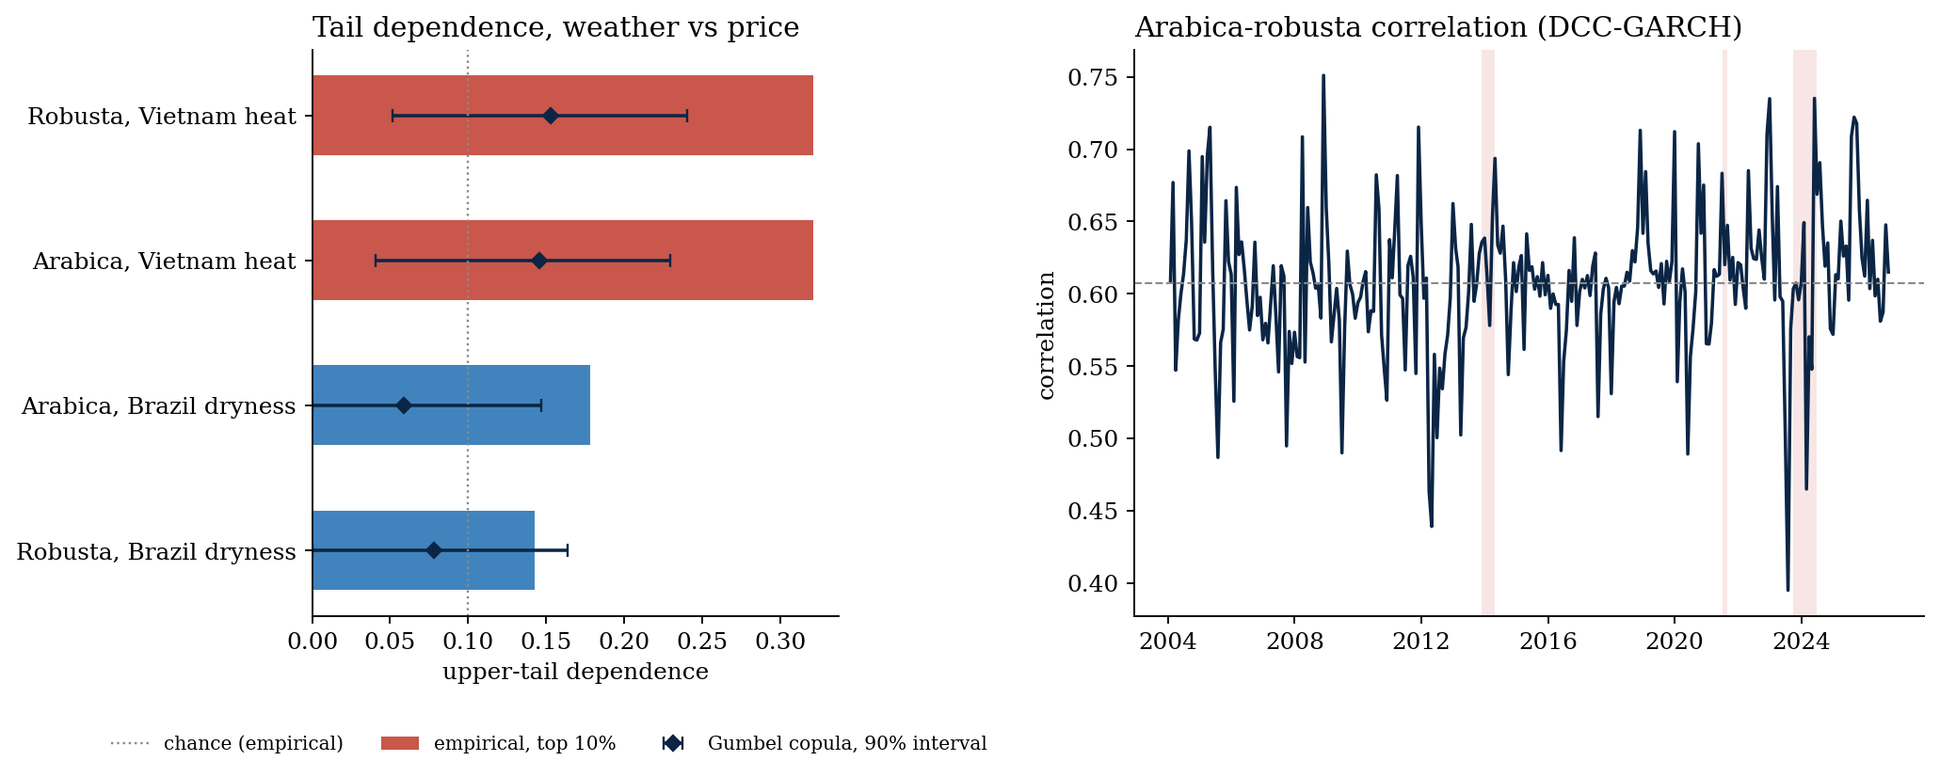
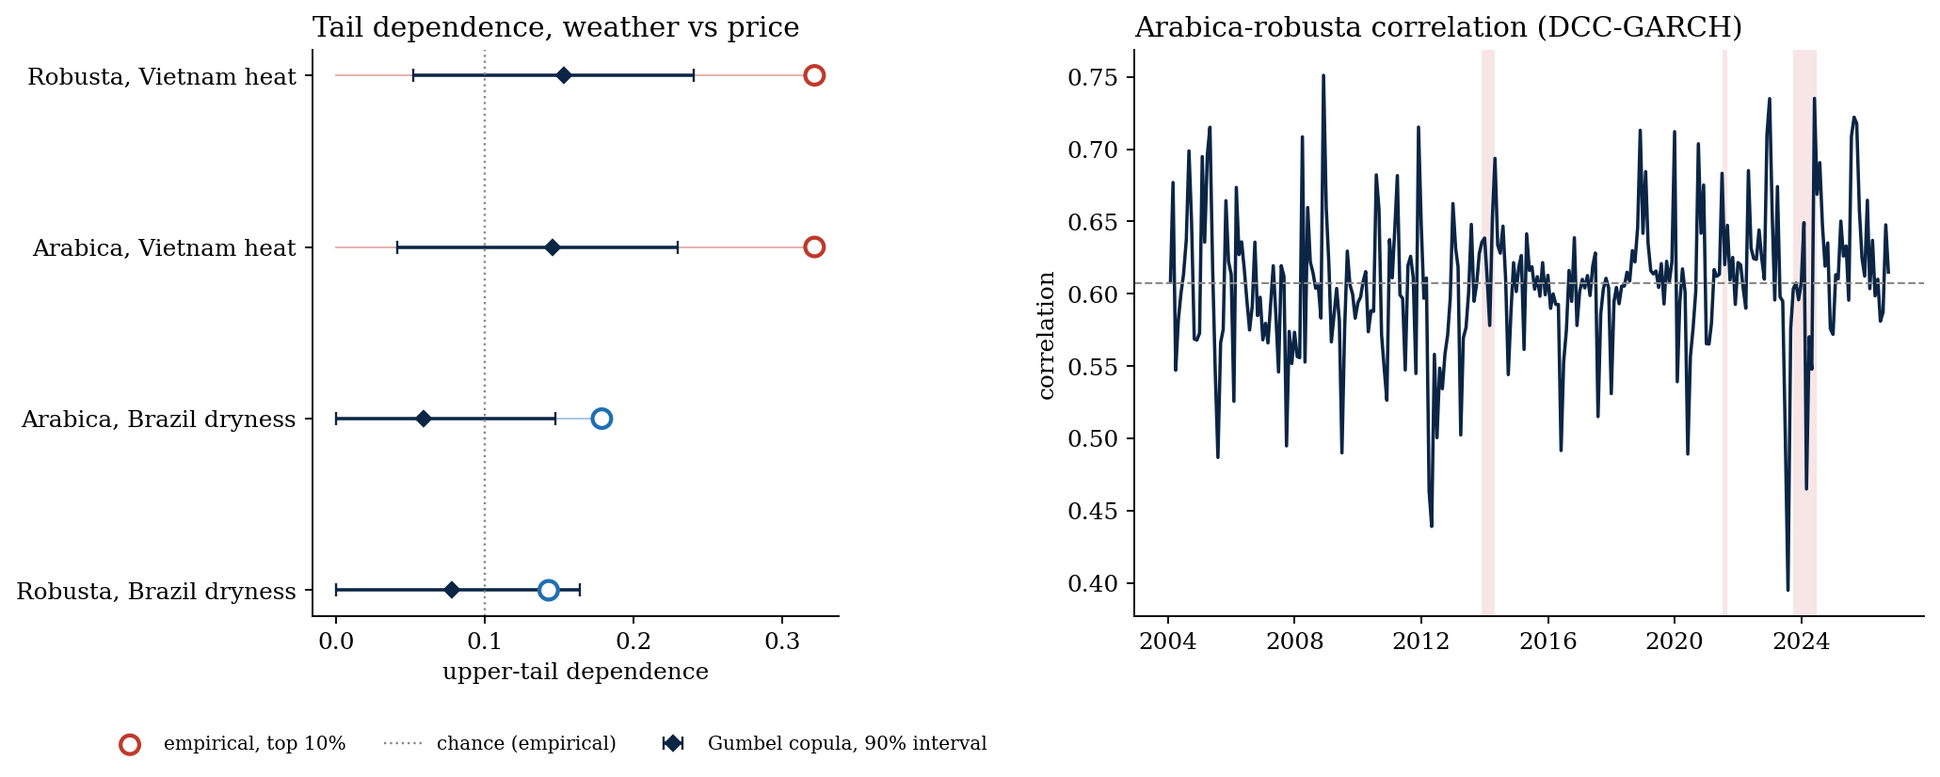
008: first stochastic event set; bar charts redrawn as dot, dumbbell, strip and return-period plots

diff --git a/008-spanish-solar-portfolio/event_set.py b/008-spanish-solar-portfolio/event_set.py
@@ -1,0 +1,119 @@
+#!/usr/bin/env python3
+#-------- event_set.py --------------------------------------------------------------
+#-----------------------------------------------------------------------------
+# A first stochastic event set for the fleet, and the P95 it implies.
+#
+# From one year of ERA5 (2023) the daily output of the 25 regions (1 MW each, irradiance x
+# 0.8) is split into each site's seasonal mean and its daily anomaly. The anomalies' joint
+# behaviour is captured by a Gaussian copula (each site's own anomaly distribution, joined
+# by their rank correlation, with day-to-day persistence from an AR(1) of the common
+# factor). 2,000 synthetic years are drawn twice: with the fitted correlation, and with the
+# sites independent. For each, the fleet's monthly output and its 1-in-20 bad month (the
+# monthly P95 shortfall) are read off. The gap is the risk a portfolio priced site by site
+# would miss. One year is a short record, so this is the framework, not a calibrated set.
+#
+#   python event_set.py      (in .venv-anemoi)
+#
+# Output: results/event_set.json, figures/fig10_event_set.png
+
+import json
+import os
+import sys
+
+import numpy as np
+import pandas as pd
+import matplotlib
+matplotlib.use("Agg")
+import matplotlib.pyplot as plt
+from scipy.stats import norm, rankdata
+
+HERE = os.path.dirname(os.path.abspath(__file__))
+sys.path.insert(0, HERE)
+import solar_sites as ss                                       # noqa: E402
+from spread_sites import daily_output                          # noqa: E402
+
+NAVY, BLUE, LIGHT, RED, GREY = "#0b2545", "#1f6fb2", "#8cc0e8", "#c0392b", "#8a8a8a"
+YEARS = 2000
+rng = np.random.default_rng(0)
+
+
+def main():
+    day, _, _ = daily_output(ss.SITES)
+    day = day.loc[day.index.year == 2023]
+    month = day.index.month
+    mean = day.groupby(month).transform("mean")
+    sd = day.groupby(month).transform("std").replace(0, np.nan)
+    z = ((day - mean) / sd).fillna(0)
+    u = np.column_stack([rankdata(z[c]) / (len(z) + 1) for c in z])
+    g = norm.ppf(u)
+    R = np.corrcoef(g.T)
+    common = g.mean(axis=1)
+    phi = float(np.corrcoef(common[:-1], common[1:])[0, 1])          # persistence of the shared weather
+    L = np.linalg.cholesky(R + 1e-9 * np.eye(len(R)))
+    sorted_z = np.sort(z.values, axis=0)
+    n_days, n_sites = z.shape
+    mean_v, sd_v = mean.values, sd.fillna(0).values
+
+    def simulate(correlated):
+        out = []
+        for _ in range(YEARS):
+            e = rng.standard_normal((n_days, n_sites))
+            ar = np.empty_like(e); ar[0] = e[0]
+            for t in range(1, n_days):                            # persistence day to day
+                ar[t] = phi * ar[t - 1] + np.sqrt(1 - phi ** 2) * e[t]
+            x = ar @ L.T if correlated else ar
+            uu = norm.cdf(x)
+            zz = np.take_along_axis(sorted_z, np.clip((uu * n_days).astype(int), 0, n_days - 1), axis=0)
+            gen = np.clip(mean_v + sd_v * zz, 0, None)
+            out.append(pd.Series(gen.sum(axis=1), index=day.index).groupby(month).sum().values)
+        return np.array(out)                                       # years x 12 months, MWh for the fleet
+
+    cor, ind = simulate(True), simulate(False)
+    actual = day.sum(axis=1).groupby(month).sum().values
+    res = {}
+    for m in range(12):
+        res[int(m + 1)] = dict(mean=float(cor[:, m].mean()), p5_correlated=float(np.quantile(cor[:, m], 0.05)),
+                               p5_independent=float(np.quantile(ind[:, m], 0.05)), actual_2023=float(actual[m]))
+    short_c = np.array([(res[m]["mean"] - res[m]["p5_correlated"]) / res[m]["mean"] for m in res])
+    short_i = np.array([(res[m]["mean"] - res[m]["p5_independent"]) / res[m]["mean"] for m in res])
+    out = dict(years=YEARS, persistence=phi, mean_pairwise_rank_corr=float(R[np.triu_indices(len(R), 1)].mean()),
+               monthly=res, p95_shortfall_correlated=float(short_c.mean()), p95_shortfall_independent=float(short_i.mean()),
+               ratio=float(short_c.mean() / short_i.mean()))
+    print(json.dumps({k: v for k, v in out.items() if k != "monthly"}, indent=1))
+
+    mmean = cor.mean(axis=0)
+    worst_c = ((mmean - cor) / mmean).max(axis=1)                 # each simulated year's worst month
+    worst_i = ((mmean - ind) / mmean).max(axis=1)
+    worst_2023 = float(((mmean - actual) / mmean).max())
+    out.update(worst_month_1in20_correlated=float(np.quantile(worst_c, 0.95)),
+               worst_month_1in20_independent=float(np.quantile(worst_i, 0.95)), worst_month_2023=worst_2023)
+    json.dump(out, open(os.path.join(HERE, "results", "event_set.json"), "w"), indent=1)
+    print({k: round(out[k], 3) for k in ("worst_month_1in20_correlated", "worst_month_1in20_independent", "worst_month_2023")})
+
+    plt.rcParams.update({"font.family": "serif", "font.size": 10.5, "axes.spines.top": False, "axes.spines.right": False})
+    fig, axes = plt.subplots(1, 2, figsize=(13, 4.8), gridspec_kw=dict(wspace=0.25))
+    ax = axes[0]
+    mths = np.arange(1, 13)
+    for lo, hi, a in [(0.05, 0.95, 0.18), (0.25, 0.75, 0.35)]:
+        ax.fill_between(mths, np.quantile(cor, lo, axis=0), np.quantile(cor, hi, axis=0), color=RED, alpha=a, lw=0,
+                        label=f"correlated sites, {int(lo*100)}-{int(hi*100)}%")
+    for q in (0.05, 0.95):
+        ax.plot(mths, np.quantile(ind, q, axis=0), color=BLUE, lw=1.1, ls="--", label="independent sites, 5% and 95%" if q == 0.05 else None)
+    ax.plot(mths, actual, color=NAVY, lw=1.6, marker="o", ms=4, label="2023 (ERA5)")
+    ax.set_xticks(mths, list("JFMAMJJASOND")); ax.set_ylabel("fleet output per month, MWh (25 x 1 MW)")
+    ax.set_title("Monthly fleet output, 2,000 simulated years", loc="left"); ax.legend(frameon=False, fontsize=8.5, loc="lower center")
+    ax = axes[1]
+    for w, col, ls, lab in [(worst_c, RED, "-", "correlated sites"), (worst_i, BLUE, "--", "independent sites")]:
+        x = np.sort(w)[::-1]
+        rp = (len(x) + 1) / np.arange(1, len(x) + 1)
+        ax.plot(rp, 100 * x, color=col, lw=1.8, ls=ls, label=lab)
+    ax.axvline(20, color=GREY, lw=0.8, ls=":")
+    ax.text(20, ax.get_ylim()[1] * 0.97, " 1 in 20 years", color=GREY, fontsize=9, va="top")
+    ax.set_xscale("log"); ax.set_xlim(1, 2000); ax.set_xticks([1, 2, 5, 10, 20, 50, 100, 200, 500, 1000], ["1", "2", "5", "10", "20", "50", "100", "200", "500", "1000"])
+    ax.set_xlabel("return period, years"); ax.set_ylabel("worst month of the year, % below its mean")
+    ax.set_title("Worst month of the year against return period", loc="left"); ax.legend(frameon=False, fontsize=9, loc="lower right")
+    fig.savefig(os.path.join(HERE, "figures", "fig10_event_set.png"), dpi=170, bbox_inches="tight"); plt.close(fig)
+
+
+if __name__ == "__main__":
+    main()

diff --git a/013-coffee-forward-curves/make_weather_figures.py b/013-coffee-forward-curves/make_weather_figures.py
@@ -142,8 +142,10 @@ def dependence_figure():
              "arabica|brazil_dry": "Arabica, Brazil dryness", "robusta|brazil_dry": "Robusta, Brazil dryness"}
     keys = list(names)
     y = np.arange(len(keys))
-    ax.barh(y, [d["tail"][k]["tail"] for k in keys], color=[RED, RED, BLUE, BLUE], height=0.55, alpha=0.85,
-            label="empirical, top 10%")
+    emp = [d["tail"][k]["tail"] for k in keys]
+    for i, c in enumerate([RED, RED, BLUE, BLUE]):
+        ax.plot([0, emp[i]], [i, i], color=c, lw=0.8, alpha=0.4)
+    ax.scatter(emp, y, s=70, facecolor="white", edgecolor=[RED, RED, BLUE, BLUE], lw=1.8, zorder=3, label="empirical, top 10%")
     lam = np.array([d["copula"][k]["tail_lambda"] for k in keys])
     lo = np.array([d["copula"][k]["tail_lambda_90"][0] for k in keys])
     hi = np.array([d["copula"][k]["tail_lambda_90"][1] for k in keys])
@@ -282,8 +284,14 @@ def seasonal_figure():
     hz = ["vietnam_heat", "vietnam_dry", "brazil_dry"]
     lab = ["Vietnam heat", "Vietnam dryness", "Brazil dryness"]
     y = np.arange(len(hz)); h = 0.38
-    ax.barh(y, [o["skill_score_vs_climatology"][k] for k in hz], 0.55, color=NAVY)
+    sk = [o["skill_score_vs_climatology"][k] for k in hz]
+    ax.axvspan(min(min(sk), 0) - 0.05, 0, color="0.94", lw=0)
+    ax.hlines(y, 0, sk, color=NAVY, lw=1, alpha=0.5)
+    ax.plot(sk, y, "o", color=NAVY, ms=9, mec="white", mew=1.2)
+    for i, v in enumerate(sk):
+        ax.annotate(f"{v:+.2f}", (v, i), xytext=(0, 9), textcoords="offset points", ha="center", fontsize=8.5, color=NAVY)
     ax.axvline(0, color=GREY, lw=0.8)
+    ax.set_ylim(len(hz) - 0.5, -0.6)
     ax.set_yticks(y, lab); ax.invert_yaxis()
     ax.set_xlabel("skill score against climatology (0 = no better than a normal month)")
     ax.set_title("ECMWF SEAS5 forecast skill", loc="left")
@@ -291,11 +299,16 @@ def seasonal_figure():
     keys = ["arabica|forecast", "arabica|climatology", "robusta|forecast", "robusta|climatology"]
     names = ["Arabica, forecast", "Arabica, climatology", "Robusta, forecast", "Robusta, climatology"]
     vals = [100 * o["results"][k]["hit_rate"] for k in keys]
-    ax.barh(range(4), vals, color=[NAVY, LIGHT, NAVY, LIGHT], height=0.6)
-    for i, k in enumerate(keys):
-        ax.text(vals[i] + 0.8, i, f"{o['results'][k]['decisions']} decisions", va="center", fontsize=8.5, color=GREY)
+    for j, bean in enumerate(["Arabica", "Robusta"]):
+        f, c = vals[2 * j], vals[2 * j + 1]
+        ax.plot([c, f], [j, j], color=GREY, lw=2.5, alpha=0.5, solid_capstyle="round")
+        ax.plot(c, j, "o", color=LIGHT, ms=10, mec=NAVY, mew=0.8, label="climatology" if j == 0 else None)
+        ax.plot(f, j, "o", color=NAVY, ms=10, mec="white", mew=1, label="SEAS5 forecast" if j == 0 else None)
+        ax.text(max(f, c) + 2.2, j, f"{o['results'][keys[2 * j]]['decisions']} decisions", va="center", fontsize=8.5, color=GREY)
     ax.axvline(50, color=RED, lw=1, ls="--")
-    ax.set_yticks(range(4), names); ax.invert_yaxis(); ax.set_xlim(0, 75)
+    ax.text(50.4, 1.45, "coin toss", color=RED, fontsize=8.5)
+    ax.set_yticks(range(2), ["Arabica", "Robusta"]); ax.set_ylim(1.6, -0.6); ax.set_xlim(35, 75)
+    ax.legend(frameon=False, fontsize=9, loc="lower right")
     ax.set_xlabel("buy-forward-or-wait calls that were right (%)")
     ax.set_title("Importer decisions, 2008 on", loc="left")
     fig.savefig(os.path.join(FIG, "fig16_seasonal.png"), dpi=170, bbox_inches="tight")

diff --git a/008-spanish-solar-portfolio/spread_sites.py b/008-spanish-solar-portfolio/spread_sites.py
@@ -79,8 +79,8 @@ def main():
     print(json.dumps(out, indent=1))
 
     plt.rcParams.update({"font.family": "serif", "font.size": 10.5, "axes.spines.top": False, "axes.spines.right": False})
-    fig = plt.figure(figsize=(13, 5.2))
-    gs = fig.add_gridspec(2, 2, width_ratios=[1.1, 1], hspace=0.6, wspace=0.35)
+    fig = plt.figure(figsize=(13, 7))
+    gs = fig.add_gridspec(2, 2, width_ratios=[1.05, 1], hspace=0.55, wspace=0.28)
     ax = fig.add_subplot(gs[:, 0])
     lines = []
     for nm in ["ne_50m_coastline", "ne_50m_admin_0_boundary_lines_land"]:
@@ -98,19 +98,27 @@ def main():
     ax.set_xlim(-10.5, 4.5); ax.set_ylim(35.5, 44.3); ax.set_aspect(1 / np.cos(np.radians(40)))
     ax.set_xticks([]); ax.set_yticks([]); ax.legend(frameon=False, fontsize=9, loc="lower right")
     ax.set_title("Sites", loc="left")
-    names = list(out)
     short = ["25 regions", "25 + six spread", "25, six moved"]
-    for k, (key, lab, col, fmt) in enumerate([("effective_sites", "Effective independent sites", NAVY, "{:.1f}"),
-                                               ("worst5_share_of_mean", "Worst 5% of days, % of an average day", BLUE, "{:.0%}")]):
-        ax = fig.add_subplot(gs[k, 1])
-        vals = [out[n][key] for n in names]
-        ax.barh(range(3), vals, color=col, height=0.6)
-        for i, v in enumerate(vals):
-            ax.text(v, i, " " + fmt.format(v), va="center", fontsize=9)
-        ax.set_yticks(range(3), short); ax.invert_yaxis()
-        ax.set_xlim(0, max(vals) * 1.25); ax.set_xticks([])
-        ax.spines["bottom"].set_visible(False)
-        ax.set_title(lab, loc="left", fontsize=10.5)
+    styles = [(NAVY, "-"), (BLUE, "--"), (RED, "-")]
+    ax = fig.add_subplot(gs[0, 1])
+    for (name, cols), lab, (c, ls) in zip(fleets.items(), short, styles):
+        a = day[cols] - day[cols].groupby(day.index.month).transform("mean")
+        lam = np.sort(np.linalg.eigvalsh(np.corrcoef(a.values.T)))[::-1]
+        ax.plot(np.arange(1, len(lam) + 1), 100 * np.cumsum(lam) / lam.sum(), ls, color=c, lw=1.6, marker="o", ms=3,
+                label=f"{lab}: {out[name]['effective_sites']:.1f} effective sites")
+    ax.set_xlim(0.5, 10.5); ax.set_ylim(40, 101)
+    ax.set_xlabel("number of weather patterns (principal components)"); ax.set_ylabel("% of daily variation")
+    ax.set_title("Daily variation explained by shared weather patterns", loc="left", fontsize=10.5)
+    ax.legend(frameon=False, fontsize=8.5, loc="lower right")
+    ax = fig.add_subplot(gs[1, 1])
+    for (name, cols), lab, (c, ls) in zip(fleets.items(), short, styles):
+        f = day[cols].sum(axis=1) / len(cols)
+        x = np.sort(f / f.mean())
+        ax.plot(100 * x, 100 * np.arange(1, len(x) + 1) / len(x), ls, color=c, lw=1.6, label=lab)
+    ax.axhline(5, color=GREY, lw=0.8, ls=":"); ax.text(2, 5.5, "worst 5% of days", color=GREY, fontsize=8.5)
+    ax.set_xlim(0, 100); ax.set_ylim(0, 30)
+    ax.set_xlabel("fleet output on the day, % of an average day"); ax.set_ylabel("% of days at or below")
+    ax.set_title("Low-output days, cumulative share", loc="left", fontsize=10.5)
     fig.savefig(os.path.join(HERE, "figures", "fig9_spread_sites.png"), dpi=170, bbox_inches="tight"); plt.close(fig)
 
 

diff --git a/013-coffee-forward-curves/compound.py b/013-coffee-forward-curves/compound.py
@@ -63,14 +63,21 @@ def main():
     plt.rcParams.update({"font.family": "serif", "font.size": 10.5, "axes.spines.top": False, "axes.spines.right": False})
     fig, axes = plt.subplots(1, 2, figsize=(13, 4.6), gridspec_kw=dict(width_ratios=[1, 1.6], wspace=0.25))
     ax = axes[0]
-    x = np.arange(len(GROUPS)); w = 0.38
-    for i, (bean, c) in enumerate([("arabica", NAVY), ("robusta", LIGHT)]):
-        vals = [100 * out["groups"][bean][k]["mean"] for k in GROUPS]
-        ax.bar(x + (i - 0.5) * w, vals, w, color=c, label=bean)
+    x = np.arange(len(GROUPS)); w = 0.2
+    rs = np.random.default_rng(1)
+    for i, (bean, c) in enumerate([("arabica", NAVY), ("robusta", BLUE)]):
+        for j, k in enumerate(GROUPS):
+            v = 100 * df.loc[g == k, f"{bean}_res"].dropna().values
+            xx = j + (i - 0.5) * 2 * w + rs.uniform(-w / 2, w / 2, len(v))
+            ax.scatter(xx, v, s=6, color=c, alpha=0.25, lw=0)
+            bm = [rs.choice(v, len(v)).mean() for _ in range(2000)]
+            ax.plot([j + (i - 0.5) * 2 * w] * 2, np.quantile(bm, [0.05, 0.95]), color=c, lw=2.2)
+            ax.plot(j + (i - 0.5) * 2 * w, v.mean(), "o", color=c, ms=8, mec="white", mew=1.2, label=bean if j == 0 else None)
+    ax.set_ylim(-20, 25)
     ax.axhline(0, color=GREY, lw=0.8)
     ax.set_xticks(x, [f"{k}\n({out['groups']['arabica'][k]['months']} months)" for k in GROUPS], fontsize=9)
-    ax.set_ylabel("mean monthly return, real removed (%)")
-    ax.set_title("Bean returns by weather hits", loc="left"); ax.legend(frameon=False)
+    ax.set_ylabel("monthly return, real removed (%)")
+    ax.set_title("Bean returns by weather hits", loc="left"); ax.text(0.99, 0.02, "dots: single months; marker and bar: mean, 90% interval", transform=ax.transAxes, ha="right", fontsize=8, color=GREY); ax.legend(frameon=False)
     ax = axes[1]
     ax.fill_between(df.index, 0, br.astype(int), step="mid", color=BLUE, alpha=0.5, lw=0, label="Brazil hit")
     ax.fill_between(df.index, 0, -vn.astype(int), step="mid", color=RED, alpha=0.5, lw=0, label="Vietnam hit")

diff --git a/013-coffee-forward-curves/tail_rule.py b/013-coffee-forward-curves/tail_rule.py
@@ -64,13 +64,17 @@ def main():
         labels = ["every month"] + [f"forecast: {k}" for k in names[1:]]
         y = np.arange(len(names))
         means = [100 * o[k]["mean_change"] for k in names]
-        ax.barh(y, means, color=[GREY] + [RED if "Vietnam" in k or "both" in k else BLUE for k in names[1:]], height=0.6)
-        for i, k in enumerate(names[1:], 1):
-            lo, hi = (100 * v for v in o[k]["ci90"])
-            ax.plot([lo, hi], [i, i], color=NAVY, lw=1.5)
-            ax.text(max(hi, means[i]) + 0.5, i, f"{o[k]['n']} months", va="center", fontsize=8.5, color=GREY)
+        cols = [GREY] + [RED if "Vietnam" in k or "both" in k else BLUE for k in names[1:]]
+        ax.axvline(means[0], color=GREY, lw=0.9, ls="--")
+        for i, k in enumerate(names):
+            if "ci90" in o[k]:
+                lo, hi = (100 * v for v in o[k]["ci90"])
+                ax.plot([lo, hi], [i, i], color=cols[i], lw=2, solid_capstyle="round")
+            ax.plot(means[i], i, "o", color=cols[i], ms=8, mec="white", mew=1)
+            if i:
+                ax.text(max(hi, means[i]) + 0.5, i, f"{o[k]['n']} months", va="center", fontsize=8.5, color=GREY)
         ax.axvline(0, color="0.7", lw=0.8)
-        ax.set_yticks(y, labels); ax.invert_yaxis()
+        ax.set_yticks(y, labels); ax.invert_yaxis(); ax.set_ylim(len(names) - 0.5, -0.5)
         ax.set_xlabel("price change over the next three months (%)")
         ax.set_title(bean.capitalize(), loc="left")
     fig.savefig(os.path.join(FIG, "fig17_tail_rule.png"), dpi=170, bbox_inches="tight"); plt.close(fig)

diff --git a/015-commodity-option-hedging/yield_risk.py b/015-commodity-option-hedging/yield_risk.py
@@ -66,11 +66,15 @@ def main():
     ax.set_xlabel("share of expected harvest sold forward (%)"); ax.set_ylabel("spread of revenue, € per expected tonne")
     ax.set_title("Revenue risk against hedge ratio", loc="left"); ax.legend(frameon=False, fontsize=9)
     ax = axes[1]
-    names = list(hind); x = np.arange(3); wbar = 0.38
-    for i, (name, c) in enumerate(zip(names, [NAVY, RED])):
-        vals = list(hind[name].values())
-        ax.bar(x + (i - 0.5) * wbar, vals, wbar, color=c, label=name)
-    ax.set_xticks(x, list(hind[names[0]].keys())); ax.set_ylabel("revenue, € per expected tonne")
+    for (name, q), c, ls in zip([("Italian producer, normal harvest", 1.0), ("producer in the drought, harvest down a third", 0.67)],
+                                [NAVY, RED], ["-", "--"]):
+        rev = q * FT10 + H * (F0 - FT10)
+        ax.plot(100 * H, rev, color=c, lw=1.8, ls=ls, label=name)
+        for h in (0.0, 0.5, 1.0):
+            v = q * FT10 + h * (F0 - FT10)
+            ax.plot(100 * h, v, "o", color=c, ms=5)
+            ax.annotate(f"€{v:.0f}", (100 * h, v), xytext=(0, 7), textcoords="offset points", ha="center", fontsize=8.5, color=c)
+    ax.set_xlabel("share of expected harvest sold forward (%)"); ax.set_ylabel("revenue, € per expected tonne")
     ax.set_title("2010 in hindsight", loc="left"); ax.legend(frameon=False, fontsize=9, loc="upper center", bbox_to_anchor=(0.5, -0.13), ncol=1)
     fig.savefig(os.path.join(FIG, "fig8_yield_risk.png"), dpi=170, bbox_inches="tight"); plt.close(fig)
 

diff --git a/014-copper-satellite-signals/heat_lags.py b/014-copper-satellite-signals/heat_lags.py
@@ -89,7 +89,10 @@ def main():
     for ax, (name, col) in zip(axes, [("Chilean copper-port exports", BLUE), ("COMEX copper return", RED)]):
         d = lagdf[lagdf.target == name]
         ax.axhspan(-d.band.mean(), d.band.mean(), color="0.92", lw=0)
-        ax.bar(d.lag, d.r, color=col, width=0.7)
+        ax.vlines(d.lag, 0, d.r, color=col, lw=1, alpha=0.5)
+        ax.plot(d.lag, d.r, "-o", color=col, lw=1.4, ms=6, mec="white", mew=1)
+        out_band = d[abs(d.r) > d.band]
+        ax.plot(out_band.lag, out_band.r, "o", color=col, ms=9, mfc="none", mew=1.4)
         ax.axhline(0, color="0.6", lw=0.8)
         ax.set_xlabel("months the heat signal leads (+) or lags (-)")
         ax.set_title(f"Chilean smelter heat vs {name.split(' ', 1)[1] if name.startswith('COMEX') else 'port exports'}", loc="left")

diff --git a/014-copper-satellite-signals/event_kazakhstan_2012.py b/014-copper-satellite-signals/event_kazakhstan_2012.py
@@ -103,7 +103,8 @@ def main():
     ax.set_title("Balkhash smelter heat, Landsat 7", loc="left")
     ax.text(pd.Timestamp(COLD[0]), 0.98, " 2012 cold snap", transform=ax.get_xaxis_transform(), color=BLUE, va="top", fontsize=9)
     ax = axes[1]
-    ax.bar(d.date, d.snow, width=6, color=LIGHT, label="snow")
+    ax.fill_between(d.date, 0, d.snow, step="mid", color=LIGHT, alpha=0.8, lw=0, label="snow")
+    ax.step(d.date, d.snow, where="mid", color=BLUE, lw=0.8)
     ax.plot(d.date, d.clear, ".", color=GREY, ms=4, label="clear and snow-free")
     ax.set_ylabel("share of the box"); ax.legend(frameon=False, fontsize=9, ncol=2, loc="upper center", bbox_to_anchor=(0.5, -0.12))
     ax.set_title("What the satellite could see", loc="left")

diff --git a/007-italian-power-volatility/make_power_figures.py b/007-italian-power-volatility/make_power_figures.py
@@ -58,7 +58,8 @@ def main():
     ax.set_ylabel("°C"); ax.set_title("Italian temperature (eight-city ERA5 mean)", loc="left"); shade(ax)
     ax = axes[3]
     m = extreme_day.resample("ME").sum()
-    ax.bar(m.index, m.values, width=25, color=RED, alpha=0.8)
+    ax.fill_between(m.index, 0, m.values, step="mid", color=RED, alpha=0.35, lw=0)
+    ax.step(m.index, m.values, where="mid", color=RED, lw=1)
     ax.set_ylabel("days per month"); ax.set_title("Extreme-weather days (above 28 °C or below 3 °C)", loc="left"); shade(ax)
     fig.align_ylabels(axes)
     fig.savefig(os.path.join(FIG, "fig8_stacked.png"), dpi=170, bbox_inches="tight"); plt.close(fig)

diff --git a/008-spanish-solar-portfolio/README.md b/008-spanish-solar-portfolio/README.md
@@ -36,6 +36,16 @@ The 25 regions sit mostly in the dry south and centre. Six sites in other weathe
 - **Spreading out buys diversification.** On daily output with the season removed, the 25 regions act like 2.1 independent sites; adding the six raises that to 2.8, and moving six of the most clustered southern sites to the new regimes, keeping 25 MW, raises it to 3.1, about half as much again.
 - **But not on the worst days.** The fleet's worst 5% of days stay at about 37% of an average day in every version. Those days are winter fronts that cover the whole peninsula, and the northern sites are cloudier anyway, so spreading lowers everyday correlation without lifting the tail. `spread_sites.py`
 
+## A first stochastic event set
+
+A P95 needs many more bad months than one year of weather holds, so the next step is to simulate them. From the 2023 ERA5 output of the 25 regions, each site's day is split into its monthly mean and a daily anomaly. The anomalies are joined by a Gaussian copula: each site keeps its own anomaly distribution, the sites are tied together by their rank correlation (0.63 on average between pairs), and each day carries over part of the day before (a day-to-day correlation of 0.60 in the shared weather). 2,000 years are drawn twice, once with the fitted correlation and once with the sites independent, and the fleet's monthly output is read off each.
+
+![Monthly fleet output across the simulated years, and the worst month of each year against how often it comes round](figures/fig10_event_set.png)
+
+- **The shared weather is most of the tail.** The fleet's 1-in-20 bad month falls 9.2% below normal on average across the year with correlated sites, against 2.3% if the sites were independent: about four times deeper.
+- **The worst month of the year.** In one year in twenty the fleet's worst month is 19% below its mean; with independent sites it would be 4%. By month, the bad month is deepest from October to January (12-15% below normal), when fronts cross the whole peninsula, and shallowest in July (2%).
+- **What the data is too thin for.** One year only gives the day-to-day weather inside that year. It cannot show a whole year that is cloudier than usual, so these tails are a floor. The plan is to add more ERA5 years, and then to perturb the simulated days with the IFS and AIFS forecast errors, which reach only about 200 km, so the two models' difference becomes a spread of possible days rather than a single number. `event_set.py`
+
 ## Two forecast models: ECMWF IFS and AIFS
 
 ECMWF now runs two global models side by side: IFS, the physics model, and AIFS, an AI model trained on ERA5 and built with the same Anemoi tools as the dataset above. Both forecast surface solar radiation. Their daily solar-energy forecasts 1–7 days ahead at the 25 sites, from March 2025, are scored against ERA5. The test period runs from February to October 2026, and skill is measured against each site's climatology:
